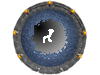
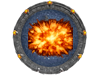
starget animation

Changed region(s): [[0.27, 0.1867, 0.75, 0.8], [0.33, 0.7467, 0.36, 0.7733]]

diff --git a/lib/stargate.py b/lib/stargate.py
@@ -10,12 +10,13 @@ class Stargate:
     def __init__(self, screen):
         self._stargates = []
         self._stargate = []
+        self._direction = 1
         self._stargates_x = []
         self._stargates_positions = [0]
         self._screen = screen
         self._stargates.append(pygame.image.load("backgrounds\\stargate.png").convert_alpha())
         self._stargates.append(pygame.image.load("backgrounds\\stargate.png").convert_alpha())
-        for x in range(1,9):
+        for x in range(1,19):
             self._stargate.append(pygame.image.load(f"backgrounds\\stargate{x}.png").convert_alpha())
         
         self._which = -1
@@ -73,11 +74,16 @@ class Stargate:
 
     def draw(self, which_city, world_x, increment=0):
         """Draw the city layers on the screen."""
-        self._counter +=1
+
+        self._counter +=self._direction
         if self._counter % 10 ==0:
             animation = self._counter // 10
             if animation> len(self._stargate)-1:
+                animation=len(self._stargate)-1
+                self._direction=-1
+            if animation<0:
                 animation=0
+                self._direction=1
             self._stargates[1] = self._stargate[animation]
             self._stargates[0] = self._stargate[animation]
         if self._counter>90:
